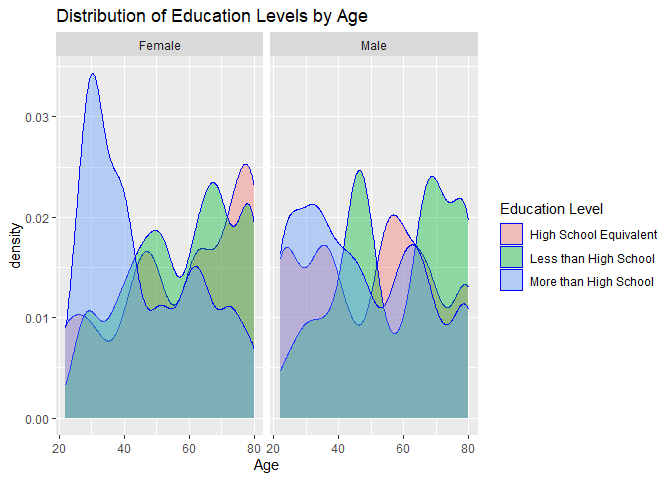
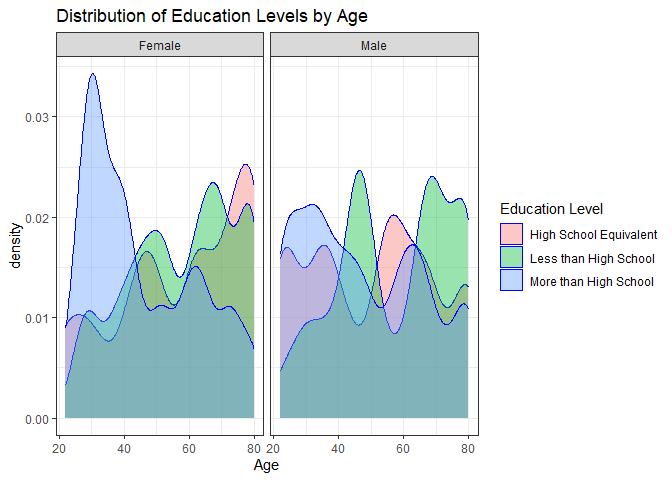
fixed some formatting for the figures, made the table more reader friendly using pivot_wider

Changed region(s): [[0.375, 0.0625, 0.4062, 0.125]]

diff --git a/HW_am6592.md b/HW_am6592.md
@@ -5,19 +5,15 @@ Adeena Moghni
 
 ## Problem 2
 
-| sex | education | counts |
-|:----|:----------|-------:|
-| 1   | 1         |     27 |
-| 1   | 2         |     34 |
-| 1   | 3         |     54 |
-| 2   | 1         |     28 |
-| 2   | 2         |     23 |
-| 2   | 3         |     59 |
+| sex    | High School Equivalent | Less than High School | More than High School |
+|:-------|-----------------------:|----------------------:|----------------------:|
+| Female |                     23 |                    28 |                    59 |
+| Male   |                     34 |                    27 |                    54 |
 
-![](HW_am6592_files/figure-gfm/unnamed-chunk-3-1.png)<!-- -->
+<img src="HW_am6592_files/figure-gfm/unnamed-chunk-3-1.png" style="display: block; margin: auto;" />
 
-![](HW_am6592_files/figure-gfm/unnamed-chunk-4-1.png)<!-- -->
+<img src="HW_am6592_files/figure-gfm/unnamed-chunk-4-1.png" style="display: block; margin: auto;" />
 
-![](HW_am6592_files/figure-gfm/unnamed-chunk-5-1.png)<!-- -->
+<img src="HW_am6592_files/figure-gfm/unnamed-chunk-5-1.png" style="display: block; margin: auto;" />
 
 ## Problem 3
